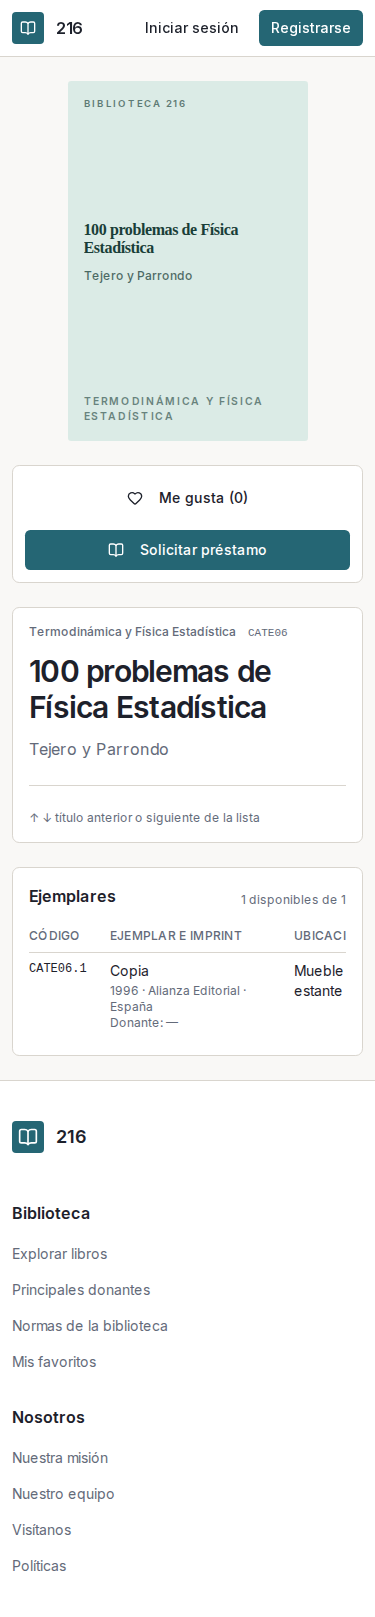
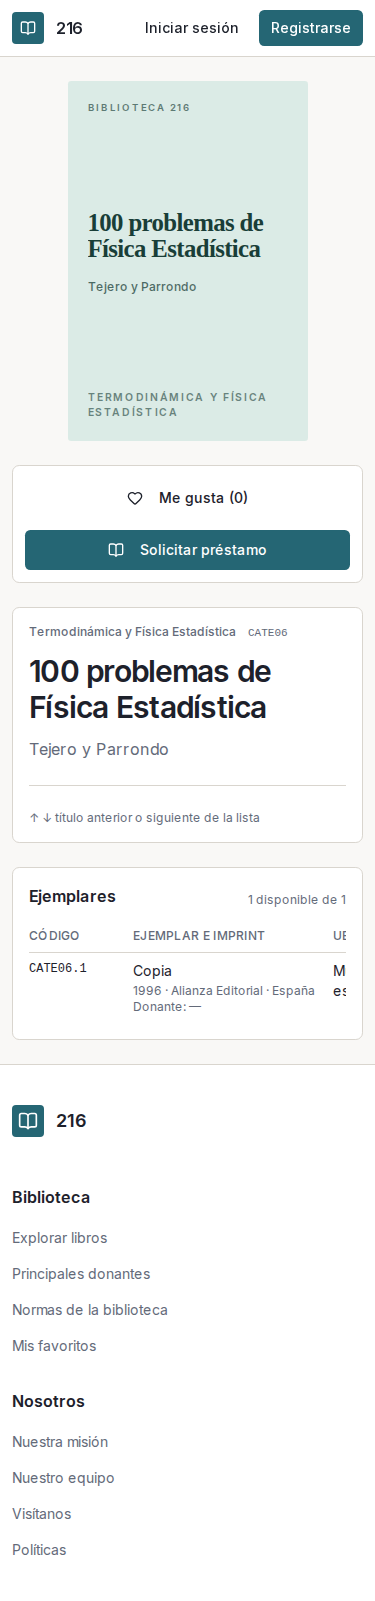
docs: document the split catalogue
The captures come from a production build, so no dev overlay shows, and the cover change touches every catalogue capture.

The screenshot scan stops when the server repeats the last page instead of walking to page 200.

diff --git a/scripts/screenshots.ts b/scripts/screenshots.ts
@@ -8,24 +8,36 @@ const suffix = dark ? "-dark" : "";
 const widths = [375, 1280] as const;
 const maxPages = 200;
 
+async function waitForCatalogueSearch(page: Page) {
+  await page.waitForTimeout(300);
+  await page.waitForFunction(
+    () => !document.querySelector('[aria-live="polite"]')?.textContent?.includes("Buscando…"),
+  );
+}
+
 async function showGrid(page: Page, pageNumber: number) {
   await page.goto(`${baseUrl}/?page=${pageNumber}`, { waitUntil: "networkidle" });
+  await waitForCatalogueSearch(page);
   await page.getByRole("button", { name: "Vista de cuadrícula" }).click();
+  await waitForCatalogueSearch(page);
   return page.locator('[role="list"] article');
 }
 
 async function findBooks(page: Page) {
   let stored: string | null = null;
   let generated: string | null = null;
+  const seen = new Set<string>();
   for (let pageNumber = 1; pageNumber <= maxPages && !(stored && generated); pageNumber++) {
     const cards = await showGrid(page, pageNumber);
-    if ((await cards.count()) === 0) break;
     const links = await cards.evaluateAll((items) =>
       items.map((item) => ({
         href: item.querySelector("a")?.getAttribute("href") ?? null,
         hasImage: item.querySelector("img") !== null,
       })),
     );
+    const firstHref = links[0]?.href;
+    if (!firstHref || seen.has(firstHref)) break;
+    seen.add(firstHref);
     for (const { href, hasImage } of links) {
       if (!href) continue;
       if (hasImage) stored ??= href;
@@ -50,6 +62,8 @@ async function capture() {
         "Todos los libros tienen portada almacenada: se omiten las capturas book-generated.",
       );
     }
+    const splitHref = stored ?? generated;
+    const splitBookId = splitHref ? new URL(splitHref, baseUrl).pathname.split("/").pop() : null;
 
     for (const width of widths) {
       const page = await browser.newPage({
@@ -57,15 +71,27 @@ async function capture() {
         colorScheme: dark ? "dark" : "light",
       });
       await page.goto(baseUrl, { waitUntil: "networkidle" });
+      await waitForCatalogueSearch(page);
       await page.screenshot({
         path: `${outputDirectory}/home-${width}${suffix}.png`,
         fullPage: true,
       });
       await page.getByRole("button", { name: "Vista de cuadrícula" }).click();
+      await waitForCatalogueSearch(page);
       await page.screenshot({
         path: `${outputDirectory}/catalogue-grid-${width}${suffix}.png`,
         fullPage: true,
       });
+      if (width === 1280 && splitBookId) {
+        await page.goto(`${baseUrl}/?book=${splitBookId}`, { waitUntil: "networkidle" });
+        await waitForCatalogueSearch(page);
+        await page
+          .getByRole("listbox", { name: "Libros" })
+          .evaluate((list) =>
+            window.scrollTo(0, list.getBoundingClientRect().top + window.scrollY - 180),
+          );
+        await page.screenshot({ path: `${outputDirectory}/catalogue-split-${width}${suffix}.png` });
+      }
       for (const [name, href] of [
         ["book-real", stored],
         ["book-generated", generated],

diff --git a/docs/design.md b/docs/design.md
@@ -18,12 +18,27 @@ The public interface uses a short, consistent scale:
 ratio. A stored image uses `/media/`; when absent, the component renders a
 typographic cover with title, author, category, and a deterministic color
 derived from the category. A grid therefore does not depend on a complete image
-collection.
+collection. The typographic cover sizes its text and padding from its own width,
+so the same component fits a grid card, the book page, and the narrow detail
+pane.
 
 The cover uses `loading="lazy"` below the first visible section and fixed
-dimensions. The catalogue offers a dense list and a grid. The list keeps the
-`/`, arrow, and Enter shortcuts; search updates results without losing focus.
-Category and availability filters remain visible.
+dimensions. The catalogue offers a dense list and a grid. At 1024 pixels and
+wider, list view splits into the list and a sticky detail pane of fixed width
+(`24rem`, `28rem` from 1280 pixels); the list takes the rest. Selecting a title
+keeps the list's filters and scroll position. The selected title is in the
+`book` URL parameter, so a reload or shared link opens the same pane. Grid view
+has no pane; its cards link to the book page. Below 1024 pixels, selecting a
+title opens its page. The list keeps the `/`, arrow, Enter, and Escape
+shortcuts; search updates results without losing focus. Category and
+availability filters remain visible.
+
+The pane renders the book page's own components:
+[`BookClient`](../src/app/books/[id]/book-client.tsx) with `variant="pane"`, a
+compact `BookHeader`, and `CopiesTable` with `layout="stacked"`, which lists
+each copy as label and value rows instead of table columns.
+
+![Catalogue split view at 1280 pixels](ui/catalogue-split-1280.png)
 
 A book page places the cover and borrow action beside the title, author, code,
 category, and copy table. Availability remains owned by the shared
@@ -47,9 +62,9 @@ database.
 
 `bun run screenshots` opens a running site, `http://localhost:3000` unless
 `SCREENSHOT_BASE_URL` says otherwise, and writes the home page, the catalogue
-grid, and a book with a stored cover and one without to `docs/ui/` at 375 and
-1280 pixels. It looks for those two books through every catalogue page and only
-reads the site; when no book has a stored cover (or none lacks one) it prints a
-warning and skips that book's captures. `bun run screenshots -- --dark` writes
-the same files with a `-dark` suffix. The command requires Chromium, installed
-with `bunx playwright install chromium`.
+grid, the 1280-pixel split catalogue, and a book with a stored cover and one
+without to `docs/ui/` at 375 and 1280 pixels. It looks for those two books
+through every catalogue page and only reads the site. When no book has a stored
+cover, or none lacks one, it prints a warning and skips that book's captures.
+`bun run screenshots -- --dark` writes the same files with a `-dark` suffix. The
+command requires Chromium, installed with `bunx playwright install chromium`.

diff --git a/docs/catalogue.md b/docs/catalogue.md
@@ -237,9 +237,10 @@ the file holds no contact data.
 `/` shows the list
 ([`book-catalog.tsx`](../src/features/books/components/book-catalog.tsx)).
 
-- One row per title: code, title, author, category and subcategory, availability
-  (_Disponible_, with lendable and total copies when the title has several, _No
-  disponible_ or _Sin ejemplares_). The code is monospace in the first column.
+- One row per title: code, title, author, availability (_Disponible_, with
+  lendable and total copies when the title has several, _No disponible_ or _Sin
+  ejemplares_), and, at 1536 pixels and wider, category and subcategory. The
+  code is monospace in the first column.
 - Filters sit in one bar above the list: category, cabinet and shelf, donor,
   availability. The category and donor lists show how many titles or copies each
   has.
@@ -251,8 +252,20 @@ the file holds no contact data.
 - When a search returns nothing, the empty state names the query and the filters
   and offers _Limpiar filtros_. An empty catalogue says so and, for staff,
   offers _Registrar el primer libro_.
-- Keys: `/` focuses the search, `↑` and `↓` move the selected row, `Enter` opens
-  it, `←` and `→` change the page, and `Esc` in the search clears it. A footer
+- At 1024 pixels and wider, list view has a detail pane on the right. Selecting
+  a row keeps the list, its scroll position and filters, and shows the title's
+  cover, header, borrow action and copies in the pane, with each copy as label
+  and value rows. The previous title stays in the pane, dimmed, until the next
+  one loads. The URL's `book` parameter stores the selection, so a reload or a
+  shared link opens the same pane; when that title is not on the current page,
+  the pane shows it and no row is highlighted. Below 1024 pixels, selecting a
+  row opens `/books/<id>`.
+- Grid view has no pane: its cards link to the book page, and switching to the
+  grid closes the pane.
+- Keys: `/` focuses the search, `↑` and `↓` move the highlighted row, `←` and
+  `→` change page, `Enter` opens the full page, and `Esc` clears the search when
+  it is focused or closes the detail pane otherwise. In list view at 1024 pixels
+  and wider, `↑` and `↓` also show the highlighted title in the pane. A footer
   line names the keys.
 - The page keeps the ids of the titles on screen in `sessionStorage`, so the
   detail page's previous and next titles follow the current page.
